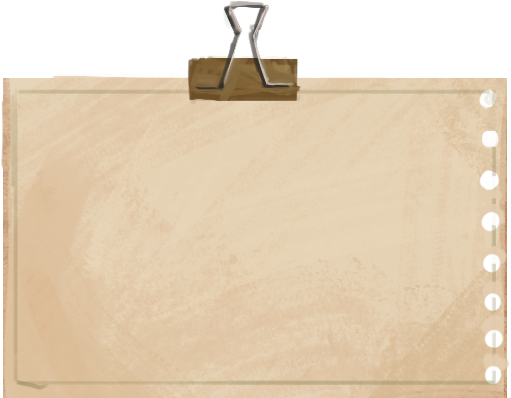
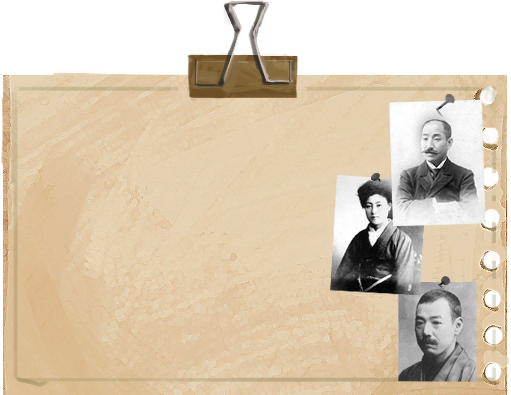
FEAT_DEV :  Update interface colors + incoming call is now a letter

diff --git a/escaposaurus_examplegamedata/escaposaurus_style.css b/escaposaurus_examplegamedata/escaposaurus_style.css
@@ -42,7 +42,7 @@ video{max-width: 960px;}
 	
 	background: url(img/background.jpg);
 	background-position: center;
-	background-color:#1022CC;
+	background-color:#7D5F34;
 	background-repeat: no-repeat;
 	background-size: cover;
 }
@@ -66,7 +66,7 @@ video{max-width: 960px;}
 
 #div-homeMission{
 	background-color:#dcdcdc;
-	border:2px solid #1022CC;
+	border:2px solid #7D5F34;
 	padding:5px;
 }
 
@@ -75,7 +75,7 @@ video{max-width: 960px;}
 	font-size:30px;
 	font-weight: bold;
 	padding:5px;
-	background-color:#1022CC;
+	background-color:#7D5F34;
 	font-family: Roboto;
 }
 
@@ -86,7 +86,7 @@ video{max-width: 960px;}
 /*shared style for app*/
 .app-title{
 	height:50px;
-	background-color: #1022CC;
+	background-color: #7D5F34;
 	border:1px solid white;
 	color: white;
 	text-align:center;
@@ -114,7 +114,6 @@ video{max-width: 960px;}
 	font-size:18px;
 	padding:10px;
 	text-align: center;
-	#background-color:#ccc;
 	color:black;
 	margin-top : 100px;
 }
@@ -127,7 +126,7 @@ video{max-width: 960px;}
 .contact-div{
 	font-size:16px;
 	text-align: left;
-	margin-bottom:50px;
+	margin-bottom:60px;
 	font-weight: bold;
 }
 
@@ -203,7 +202,6 @@ video{max-width: 960px;}
 #passPrompt-window,
 #wrongPassword,
 #newContact-window,
-#calling-window,
 #message-window,
 #nocall-window,
 #solution-window,
@@ -215,6 +213,22 @@ video{max-width: 960px;}
 	border:1px solid white;
 	background-color:#000;
 	width:200px;
+}
+
+#calling-window{
+	position:absolute;
+	z-index:300;
+	left:45%;
+	top:35%;
+	background-color:#000;
+	background: url("img/letter.png") center no-repeat ;
+	background-size: contain;
+	width:230px;
+	height:170px;
+
+	display: flex;
+  	justify-content: center;
+  	align-items: center;
 }
 
 #solution-window,
@@ -243,7 +257,6 @@ video{max-width: 960px;}
 #newContact-window button,
 #UIvid-window button,
 #callVideo-window button,
-#calling-window button,
 #message-window button,
 #nocall-window button,
 #solution-window button,
@@ -259,13 +272,26 @@ video{max-width: 960px;}
 	font-weight:bold;
 }
 
+#calling-window button{
+	background: url("img/redstamp.png") center no-repeat ;
+	background-size: contain;
+	margin-right: 10px;
+	height : 50px;
+	width: 50px;
+}
+
+#calling-window button:hover{
+	cursor: pointer;
+	background: url("img/yellowstamp.png") center no-repeat ;
+	background-size: contain;
+}
+
 #notnowPrompt-window button:hover,
 #passPrompt-window button:hover,
 #wrongPassword button:hover,
 #newContact-window button:hover,
 #UIvid-window button:hover,
 #callVideo-window button:hover,
-#calling-window button:hover,
 #message-window button:hover,
 #nocall-window button:hover,
 #solution-window button:hover,
@@ -291,7 +317,7 @@ video{max-width: 960px;}
 #footer{
 	height:34px;
 	width:100%;
-	background-color:#1022CC;
+	background-color:#7D5F34;
 	position: absolute;
 	padding-top:3px;
 	padding-bottom:3px;

diff --git a/index.html b/index.html
@@ -167,13 +167,9 @@
 
 	<!-- APPEL ENTRANT -->
 	<div id="calling-window" class="hidden">
-		<div class="app-title"><span class="app-title-span">APPEL ENTRANT</span></div>
 		<div class="message-content">
 			<img id="callerIMG" />
-			<br/>
-			Appel entrant...<br/>
-			<br/>
-			<button class="window-btn" onclick="closeAppelEntrant('calling-window')">Répondre</button>
+			<button class="" style="border-top-style: solid;border-top-width: 0px;border-right-width: 0px;border-right-style: solid;border-bottom-width: 0px;border-bottom-style: solid;border-left-width: 0px;border-left-style: solid;" onclick="closeAppelEntrant('calling-window')"></button>
 		</div>
 	</div>
 

diff --git a/escaposaurus_examplegamedata/escaposaurus_exampledata.js b/escaposaurus_examplegamedata/escaposaurus_exampledata.js
@@ -104,6 +104,7 @@
 		var normalContacts = [] ;
 		normalContacts[0] = {"vid" : "Denise", "vod_folder" : "", "username" : "Denise (guide)", "canal" : "video", "avatar" : "denise_avatar.jpg"} ;
 		normalContacts[1] = {"vid" : "Nathalie", "vod_folder" : "", "username" : "Nathalie (guide)", "canal" : "video", "avatar" : "nata_avatar.jpg"} ;
+		normalContacts[2] = {"vid" : "Nathalie", "vod_folder" : "", "username" : "Test (Test)", "canal" : "video", "avatar" : "nata_avatar.jpg"} ;
 
 		/*second part of the list, contact that can help the player*/
 		var helperContacts = [] ;
